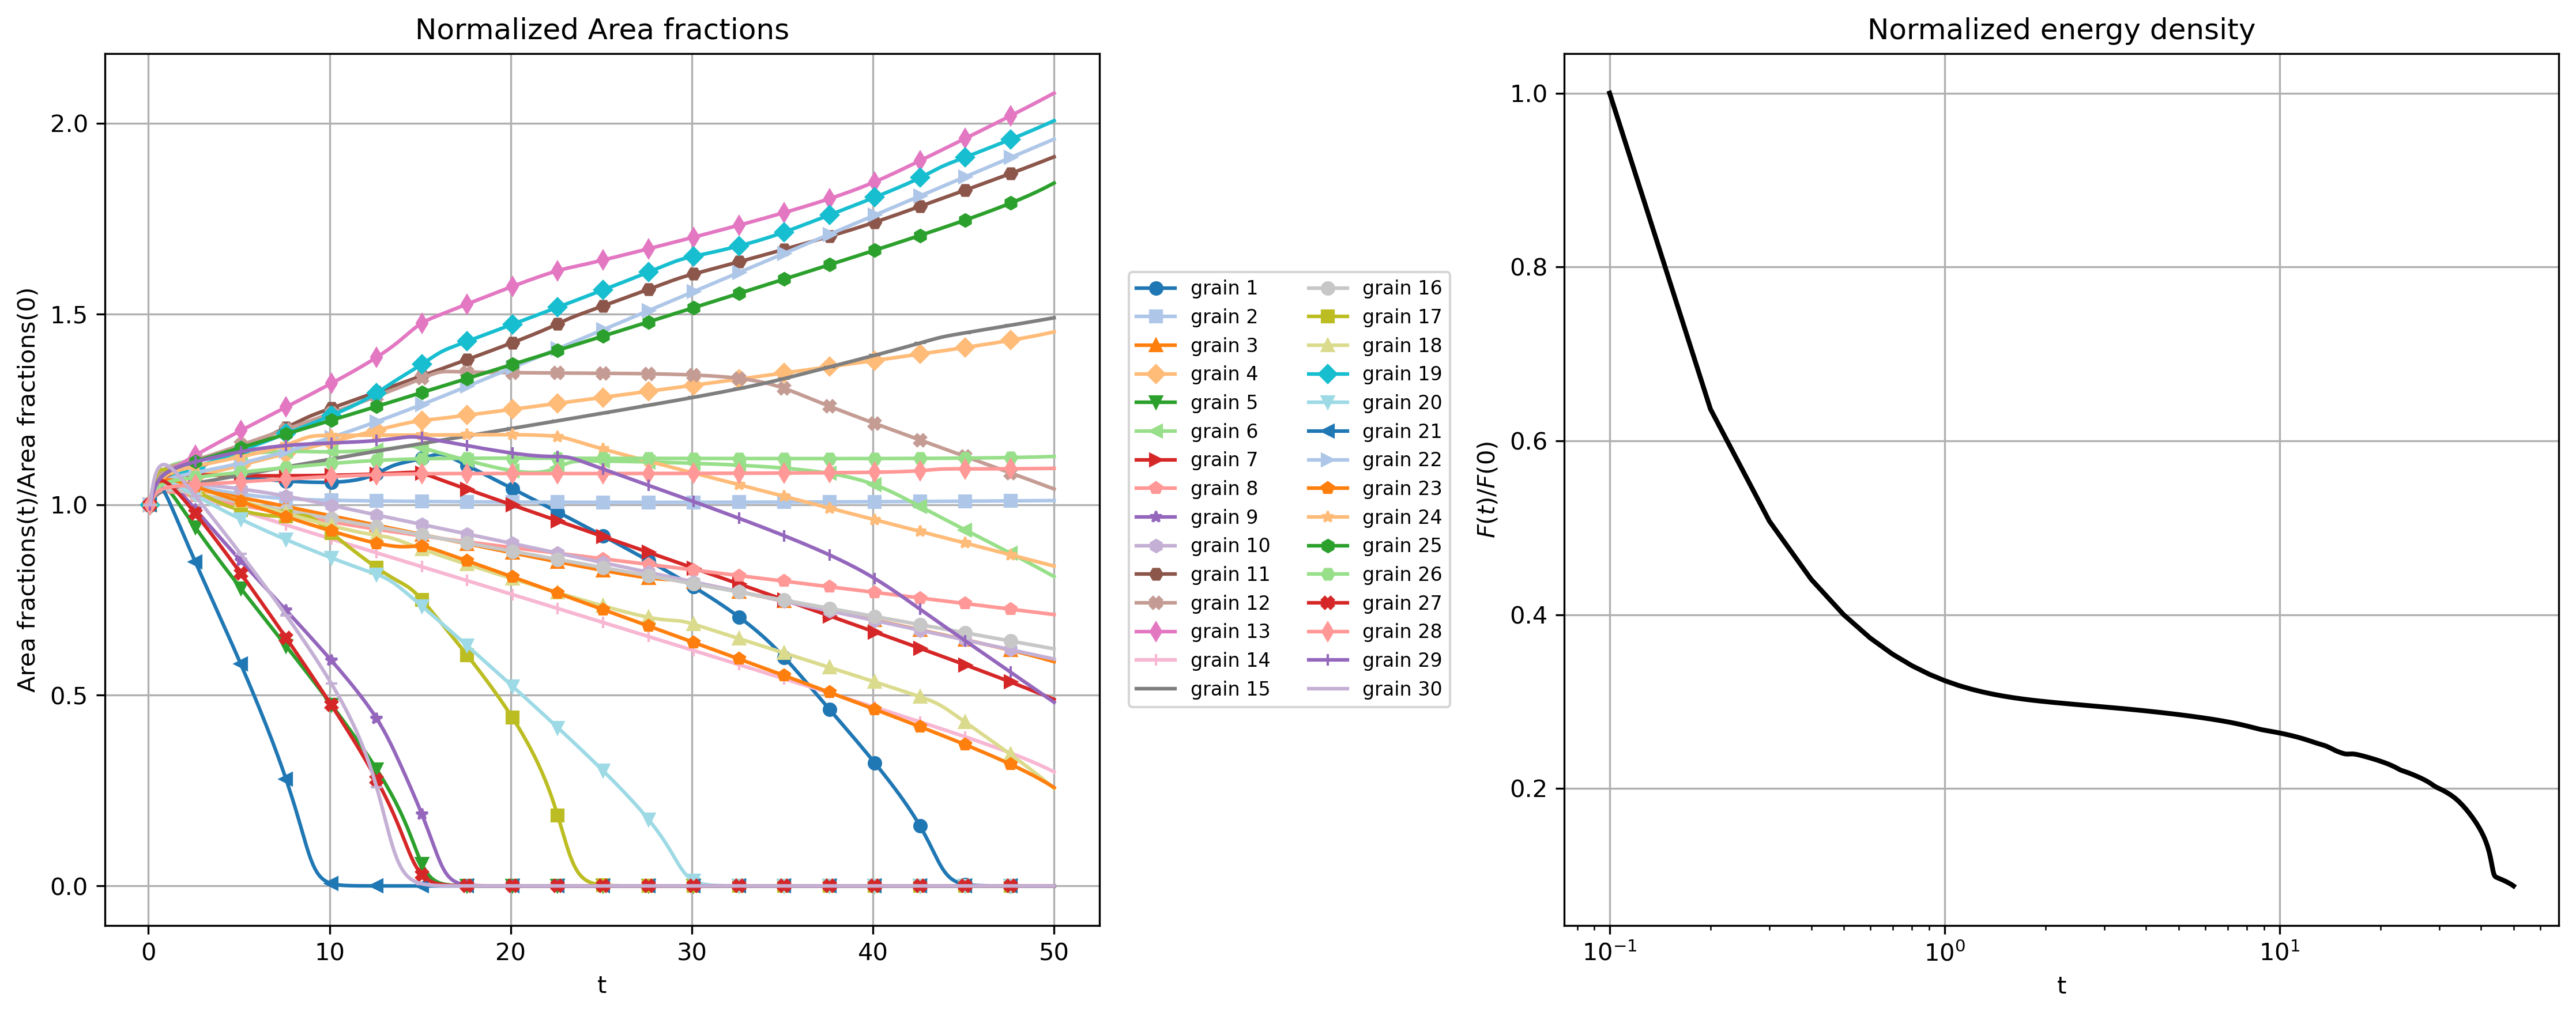
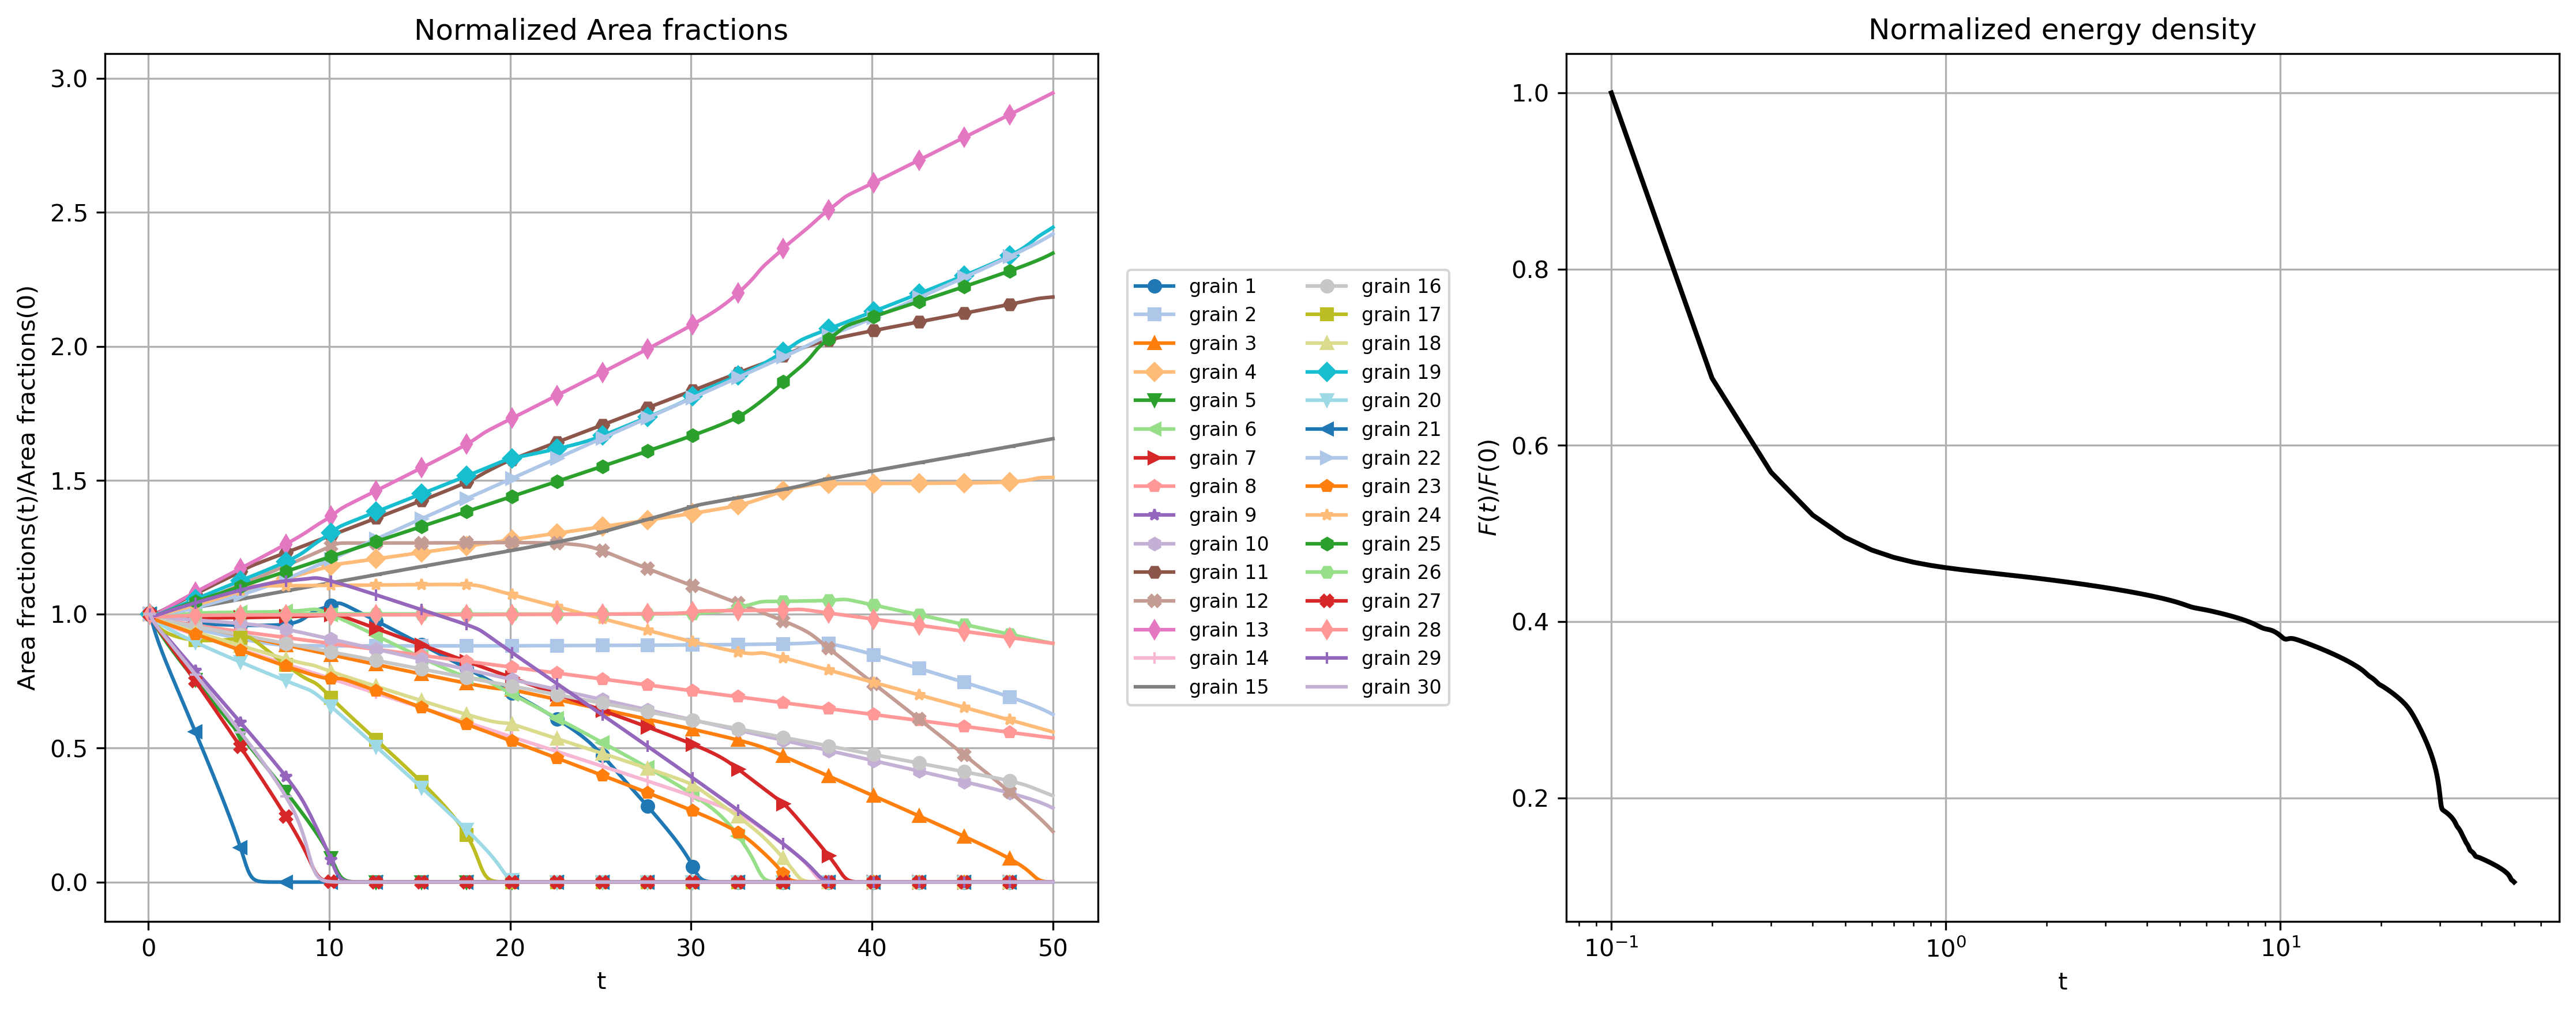
Add new results and description for sintering and polycrystalline tests

diff --git a/doc/docs/Started/Examples/AllenCahn/example3/index.md b/doc/docs/Started/Examples/AllenCahn/example3/index.md
@@ -1,25 +1,32 @@
 
-# **Example 3: time evolution of a polycristalline microstructure composed of 30 grains**
+# **Example 3: time evolution of a polycristalline microstructures composed of 30 and 102 grains**
 
 ### __Files__ 
 
-- Comprehensive test file: [main.cpp](https://github.com/Collab4Sloth/SLOTH/tree/master/tests/Studies/multigrains/test1/main.cpp)
-- Reference results for comparison (regression test) (N=32, t=0.2): [time_specialized.csv](https://github.com/Collab4Sloth/SLOTH/tree/master/tests/Studies/multigrains/test1/ref/time_specialized.csv)
-- Reference results for comparison (N=128, t=25): [time_specialized.csv](https://github.com/Collab4Sloth/SLOTH/tree/master/tests/Studies/multigrains/test1/resu/time_specialized.csv)
+- 30 grains
+    - Comprehensive test file (2D): [main.cpp](https://github.com/Collab4Sloth/SLOTH/tree/master/tests/Studies/multigrains/test1/main.cpp)
+    - Comprehensive test file (3D): [main.cpp](https://github.com/Collab4Sloth/SLOTH/tree/master/tests/Studies/multigrains/test2/main.cpp)
+    - 2D Reference results for comparison (regression test) (N=32, t=0.2): [time_specialized.csv](https://github.com/Collab4Sloth/SLOTH/tree/master/tests/Studies/multigrains/test1/ref/time_specialized.csv)
+    - 2D Reference results for comparison (N=128, t=25): [time_specialized.csv](https://github.com/Collab4Sloth/SLOTH/tree/master/tests/Studies/multigrains/test1/resu/time_specialized.csv)
+    - 3D Reference results for comparison (N=128, t=25): [time_specialized.csv](https://github.com/Collab4Sloth/SLOTH/tree/master/tests/Studies/multigrains/test2/resu/time_specialized.csv)
+- 102 grains
+    - Comprehensive test file (2D): [main.cpp](https://github.com/Collab4Sloth/SLOTH/tree/master/tests/Studies/multigrains/test1/main.cpp)
+    - 2D Reference results for comparison (regression test) (N=32, t=0.2): [time_specialized.csv](https://github.com/Collab4Sloth/SLOTH/tree/master/tests/Studies/multigrains/test3/ref/time_specialized.csv)
+    - 2D Reference results for comparison (N=128, t=25): [time_specialized.csv](https://github.com/Collab4Sloth/SLOTH/tree/master/tests/Studies/multigrains/test3/resu/time_specialized.csv)
 
 
 
 ### __Statement of the problem__ 
 
-This test extends to 30 grains the one presented in [@biner2017programming] concerning the time evolution of a polycrystalline microstructure.
+This test extends to 30 and 102 grains the one presented in [@biner2017programming] concerning the time evolution of a polycrystalline microstructure.
 
-Thirty Allen-Cahn equations are solved in a square $`\Omega=[0,32]\times[0,32]`$ using an implicit monolithic algorithm.
+Allen-Cahn equations are solved in a square $`\Omega=[0,32]\times[0,32]`$ using an implicit monolithic algorithm.
 
 ```math
 
 \begin{align}
 
-\frac{\partial \eta_i}{\partial t} &= -L_i \frac{\delta F}{\delta \eta_i}, \qquad i = 1,\ldots,30
+\frac{\partial \eta_i}{\partial t} &= -L_i \frac{\delta F}{\delta \eta_i}, \qquad i = 1,\ldots,C
 
 \end{align}
 
@@ -33,24 +40,30 @@ where the free energy density is defined by:
 
 F &= \int_V \left[ \sum_{i=1}^{N} \left( -\frac{1}{2}\eta_i^2 + \frac{1}{4}\eta_i^4 \right)
 
-+ \sum_{i=1}^{30} \sum_{\substack{j=1 \\ j \neq i}}^{30} (\eta_i^2 \eta_j^2)  + \sum_{i=1}^{30} \frac{\kappa_i}{2} \left|\nabla \eta_i \right|^2 \right] \, dv 
++ \sum_{i=1}^{C} \sum_{\substack{j=1 \\ j \neq i}}^{C} (\eta_i^2 \eta_j^2)  + \sum_{i=1}^{C} \frac{\kappa_i}{2} \left|\nabla \eta_i \right|^2 \right] \, dv 
 
 
 \end{align}
 
 ```
 
+Hereabove, $`C`$ corresponds to the number of grains.
 
 ### __Initial condition__
 
 The Voronoi-based 2D initialization is generated using the Voro++ library[@rycroft2009voro].
 
 <figure markdown="span">
-    ![MMS](img/initial-grains.png){ width=500px}
+    ![MMS](img/poly_30_tess.png){ width=500px}
     <figcaption>Figure 1: initial polycrystalline microstructure composed of 30 grains.
     </figcaption>
 </figure>
 
+<figure markdown="span">
+    ![MMS](img/poly_102_tess.png){ width=500px}
+    <figcaption>Figure 2: initial polycrystalline microstructure composed of 102 grains.
+    </figcaption>
+</figure>
 
 
 
@@ -74,19 +87,33 @@ Periodic boundary conditions are prescribed on boundary of the domain.
 
 ### __Results__ 
 
-Figure 2 shows the time evolution of the normalized area and energy density. 
-Figure 3 shows the time evolution of the polycrystalline microstructure composed of 30 grains.
-Smaller grains tend to disappear, while larger grains grow. 
+Figure 3 shows the time evolution of the normalized area and energy density for the polycrystalline microstructure composed of 30 grains. 
+As shown on Figure 4, smaller grains tend to disappear, while larger grains grow. 
+Figure 5 shows a 3D extension of the time evolution of the polycrystalline microstructure composed of 30 grains.
+
+Figure 6 shows the time evolution of a polycrystalline microstructure composed of 102 grains.
 
 <figure markdown="span">
     ![grains](img/normalized_quantities.png){  width=1000px}
-    <figcaption>Figure 2: normalized area and energy density
+    <figcaption>Figure 3: normalized area and energy density
     </figcaption>
 </figure>
 
 <figure markdown="span">
     ![grains](img/anim_grain.gif){ width=500px}
-    <figcaption>Figure 3: time evolution of the polycrystalline microstructure composed of 30 grains.
+    <figcaption>Figure 4: time evolution of the polycrystalline microstructure composed of 30 grains.
+    </figcaption>
+</figure>
+
+<figure markdown="span">
+    ![grains](img/anim_grain3D.gif){ width=1000px}
+    <figcaption>Figure 5: 3D extension of time evolution of the polycrystalline microstructure composed of 30 grains. (almost $`2.10`$ million DOF). The simulation has been performed with $`2048`$ MPI processes on Topaze supercomputer at CEA.
+    </figcaption>
+</figure>
+
+<figure markdown="span">
+    ![grains](img/anim_grain2D_100.gif){ width=500px}
+    <figcaption>Figure 6: time evolution of the polycrystalline microstructure composed of 102 grains. 
     </figcaption>
 </figure>
 

diff --git a/doc/docs/Started/Examples/Multiphasefield/example2/index.md b/doc/docs/Started/Examples/Multiphasefield/example2/index.md
@@ -317,6 +317,7 @@ Neumann boundary conditions are prescribed on boundary of the domain.
 Figure 1 shows the evolution of conserved and non conserved phase-fields at time step 100 and 2500 (from top to bottom). 
 Figure 2 shows the time evolution of nine unequal sized particles. 
 The results are in good agreement with those presented in [@biner2017programming] (see Figure 4.12 in the reference).
+Figure 3 shows the 3D extension of the time evolution of nine unequal sized particles.
 
 <figure markdown="span">
     ![sintering](img/step100.png){  width=1000px}